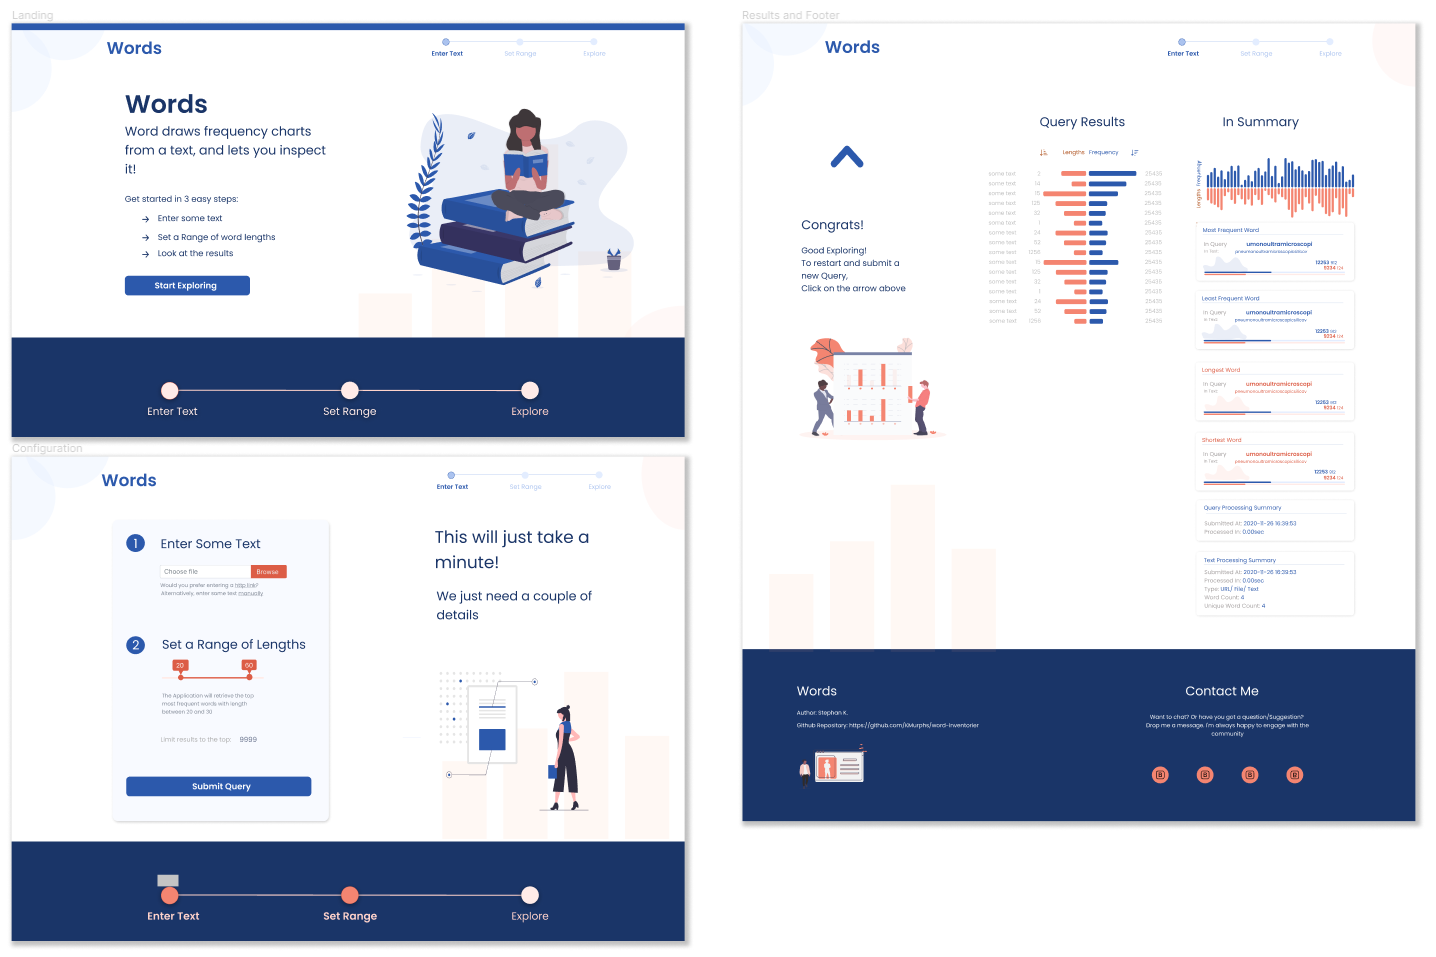
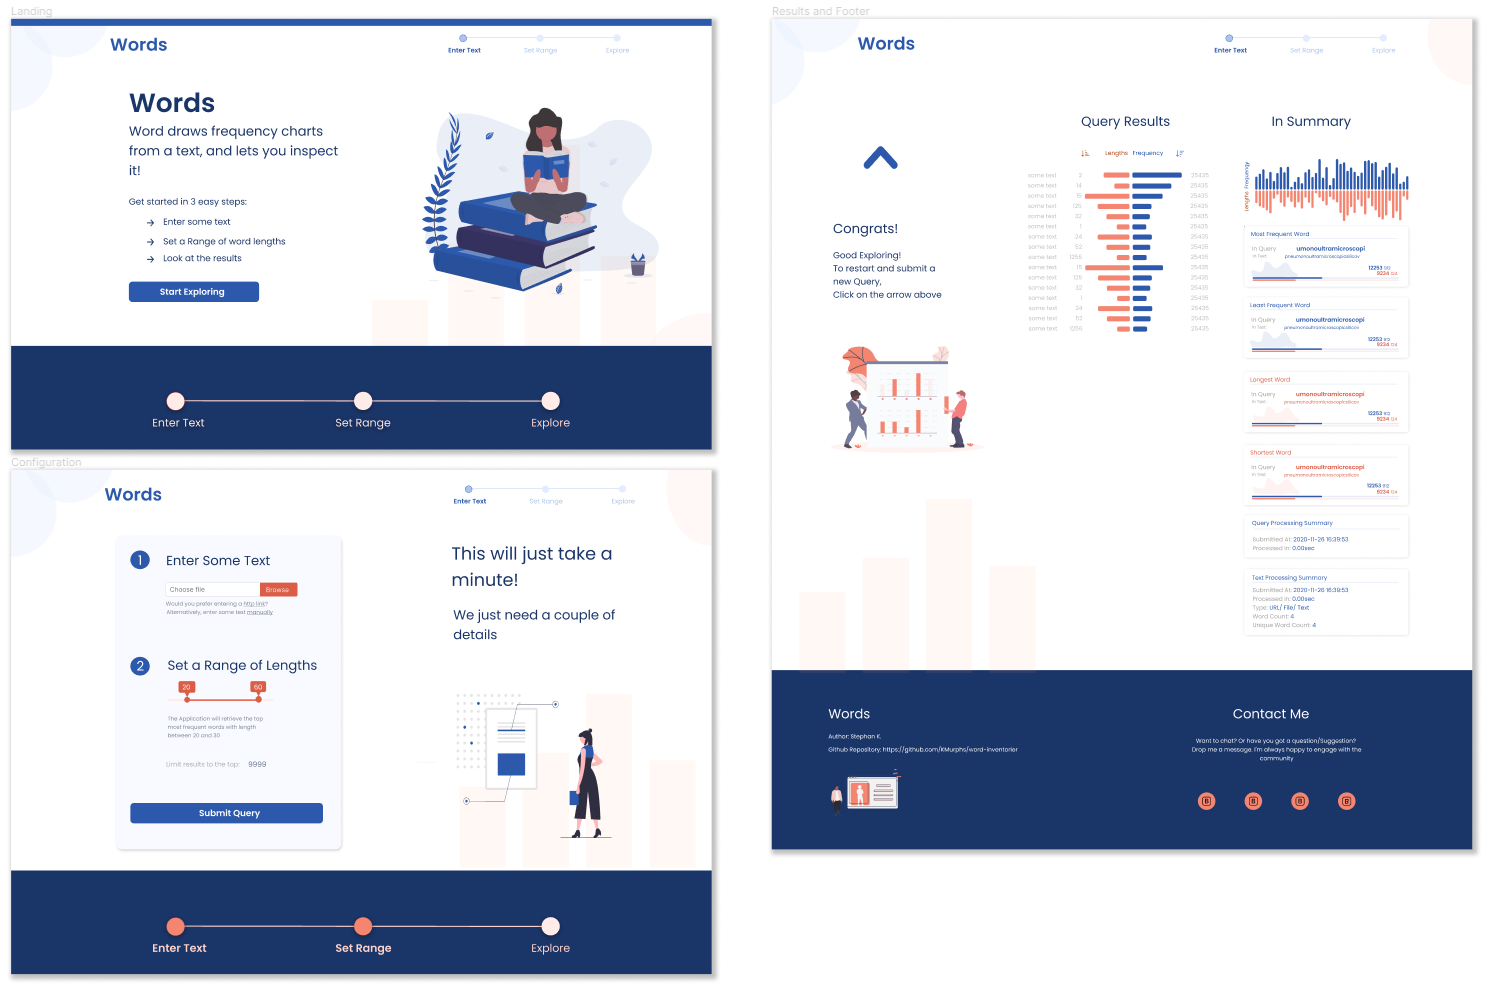
Added desktop ui

diff --git a/README.md b/README.md
@@ -106,11 +106,11 @@ Information Architecture was first established as the most important aspect of t
 
 Figma was used to design the UI.
 
-The Mobile first Version of the front end client
+### The Mobile first Version of the front end client
 
 ![Mobile First Version](https://raw.githubusercontent.com/KMurphs/word-inventorier/master/docs/ui-mobile-lg.png "Mobile First Version of UI")
 
-The Desktop Version of the front end client
+### The Desktop Version of the front end client
 
 ![Mobile First Version](https://raw.githubusercontent.com/KMurphs/word-inventorier/master/docs/ui-desktop-lg.png "Desktop Version of UI")
 
